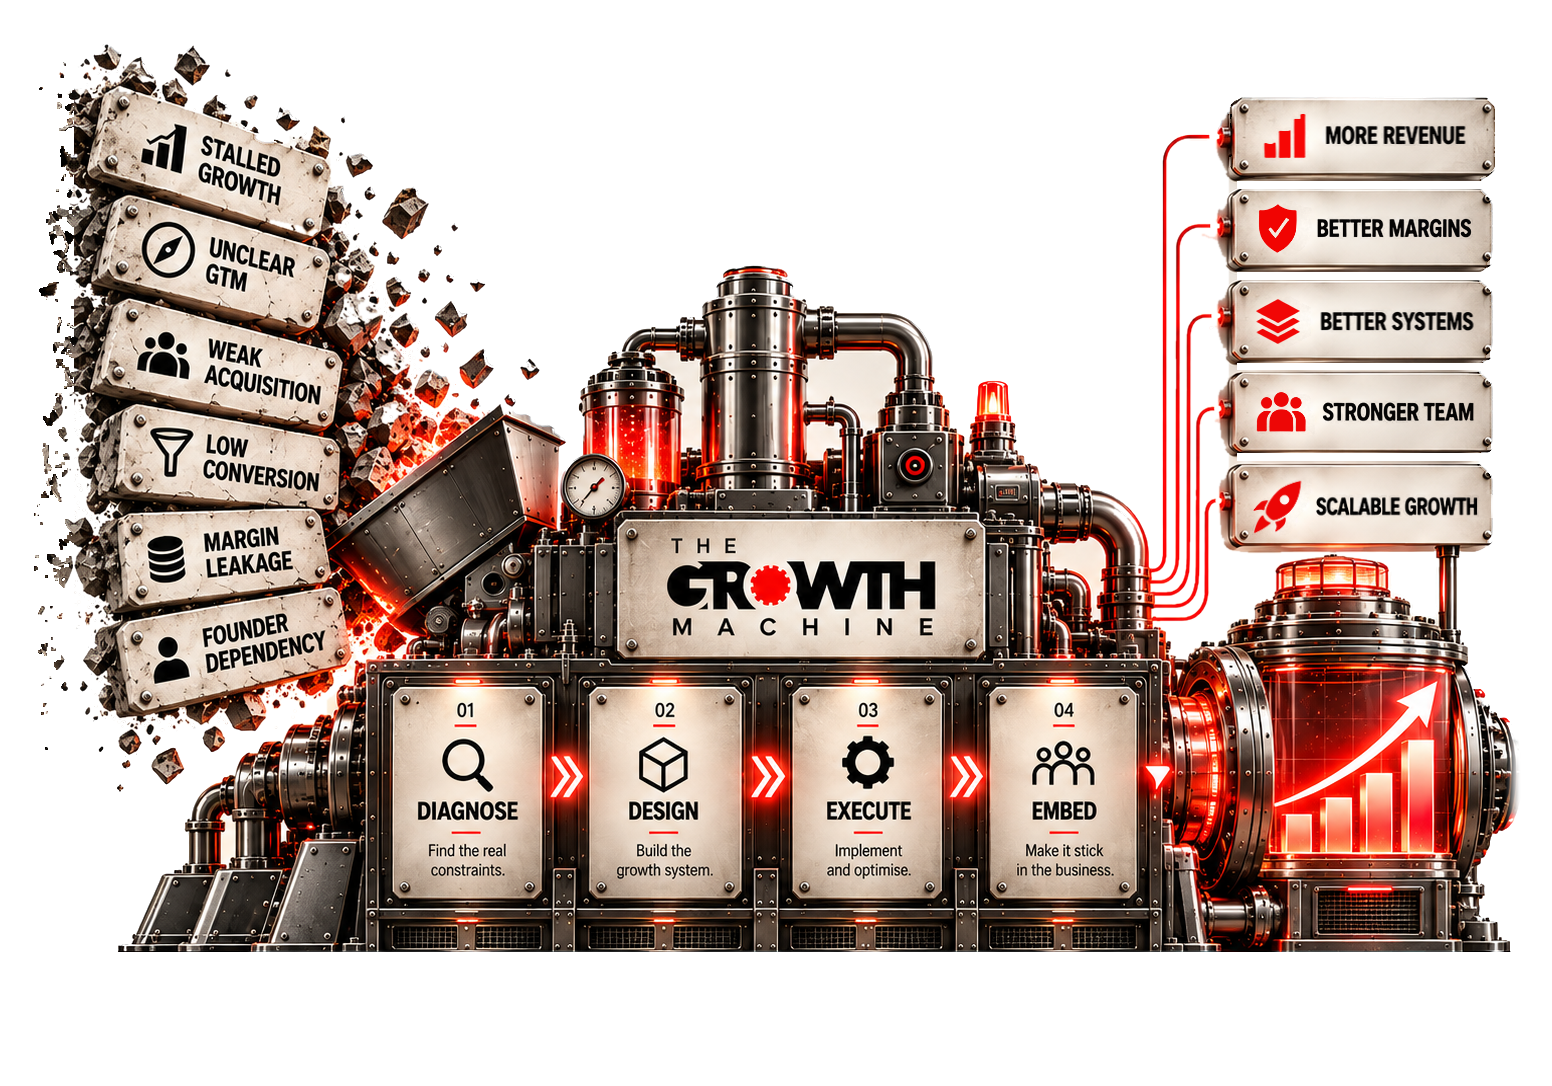
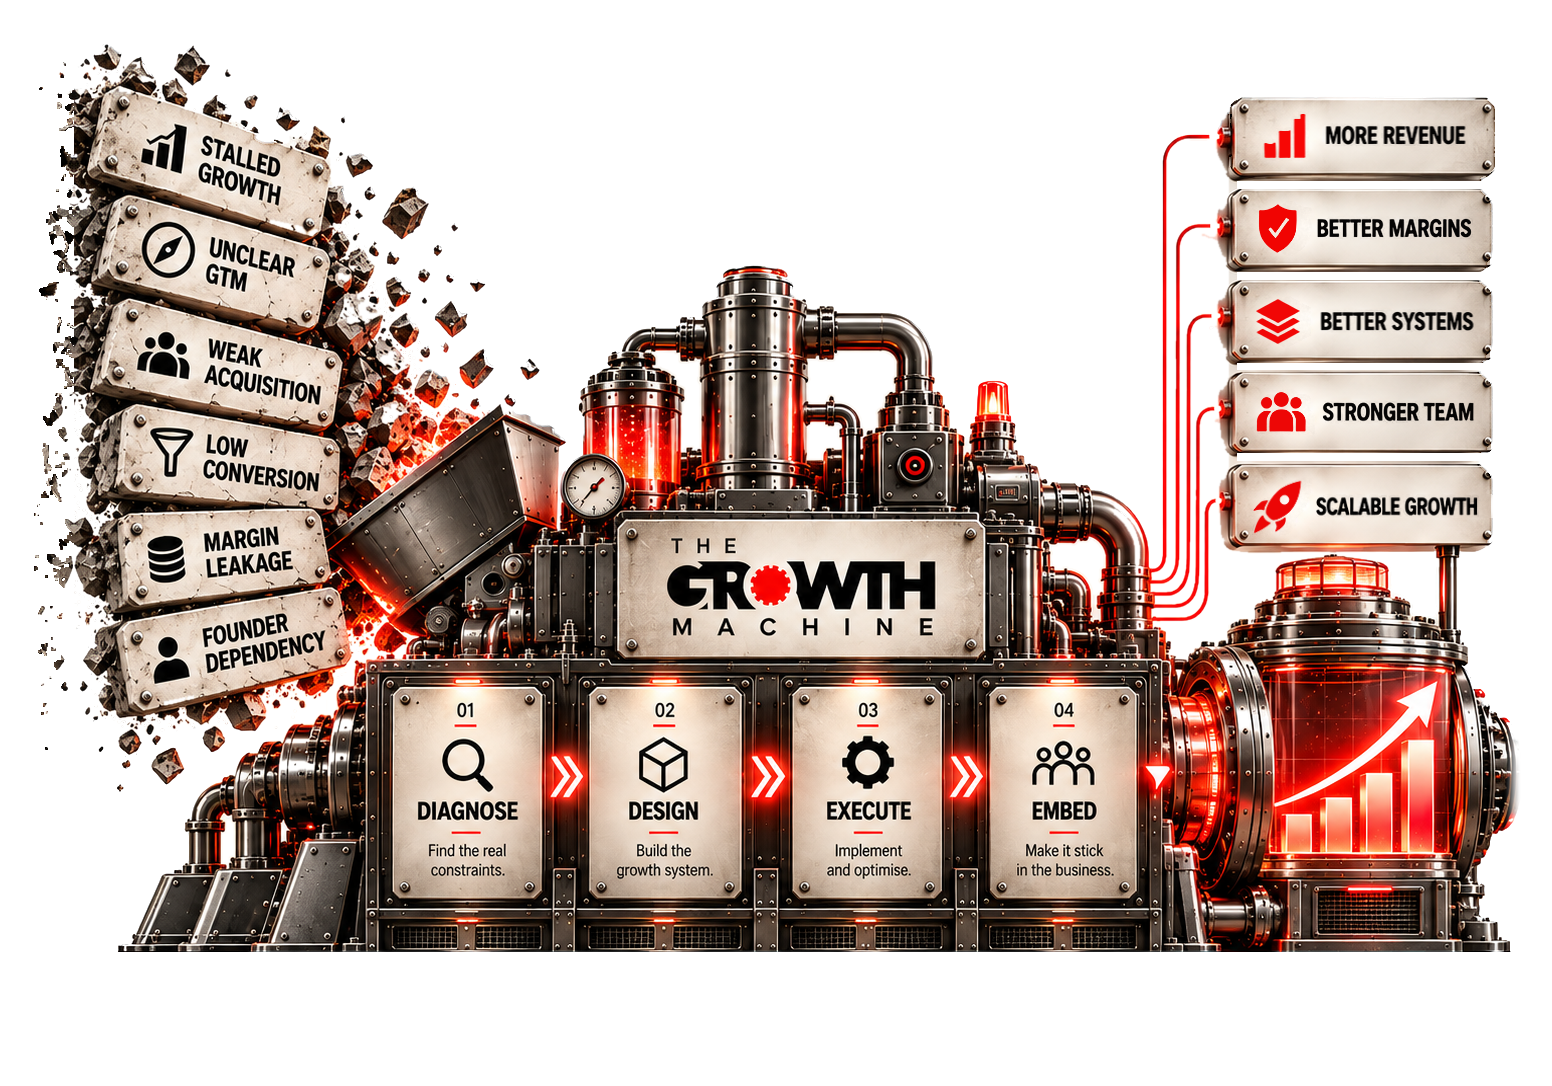
Remove backdrop trapped between the machine's pipes
The cut-out only removed studio backdrop it could reach from the image
edge, so pockets enclosed by pipework stayed: invisible on cream, cream
patches on black. machine-glows.py now sweeps the whole machine for light,
unsaturated, smooth regions (thin chrome highlights are discarded first)
and clears them, protecting the white parts that belong: plates, panels,
the gauge face and the arrows. Near the Founder Dependency slab, where the
backdrop is tinted by the rubble's glow, a near-white pass runs in that
zone only; the slab's hand-measured outline was 10px too generous there.

The scroll lock no longer reserves a permanent scrollbar gutter, which
showed as a cream strip beside dark sections. It keeps the scrollbar's
width as padding only while locked, painted ink.

Claude-Session: https://claude.ai/code/session_01RD994P3JhY2dxs5GjAWo8M

diff --git a/brand/tools/machine-glows.py b/brand/tools/machine-glows.py
@@ -69,7 +69,7 @@ ART = {
             [(28, 296), (276, 344), (264, 432), (16, 384)],
             [(36, 400), (270, 420), (266, 512), (30, 494)],
             [(40, 504), (252, 508), (254, 606), (40, 604)],
-            [(40, 592), (272, 580), (282, 668), (52, 708)],
+            [(40, 592), (266, 580), (270, 664), (52, 708)],
         ],
         "outputs": [rrect(1154, 99 + round(90.75 * k), 268, 81) for k in range(5)],
         "stages": [chamfer(x, 688, 151, 210, 8) for x in (319, 516, 717, 914)],
@@ -84,6 +84,14 @@ ART = {
         "pad": {"l": 74, "t": 0, "r": 30, "b": 0},
         "extend_left": 44,
         "fade_right": (720, 830, 18),
+        # Genuinely white parts the pocket sweep must leave alone (original
+        # render coordinates): the pressure gauge face, and the small white
+        # indicator arrow beside stage 4. The nameplate is covered separately.
+        "keep_light": {"circles": [(522, 480, 40)], "boxes": [(1074, 758, 26, 26)]},
+        "nameplate": (545, 515, 364, 143),
+        # where rubble meets the frame, backdrop is too small and too tinted
+        # for the pocket test; only here, take anything near-white
+        "sliver_zones": [[(250, 560), (330, 560), (330, 790), (200, 790), (200, 700), (250, 660)]],
         # Result boards: the render drew most of them off-centre. Their rivets
         # sit symmetrically about x=1291, so each board's icon-and-text is
         # recentred on that line, and shrunk only if wider than the room
@@ -113,6 +121,9 @@ ART = {
         "pad": {"l": 0, "t": 0, "r": 0, "b": 0},
         "extend_left": 0,
         "fade_right": None,
+        "keep_light": {"circles": [(238, 647, 38)], "boxes": []},
+        "nameplate": (272, 652, 390, 158),
+        "sliver_zones": [],
         "recentre": None,
     },
 }
@@ -265,6 +276,55 @@ def recentre_boards(rgb, src, boards, cfg):
     return img
 
 
+def pockets(rgb, alpha, protect):
+    """Studio backdrop trapped inside the machine, between pipes.
+
+    The cut-out only removed backdrop it could reach from the image edge, so
+    pockets enclosed by pipework stayed. Invisible on cream, obvious on black.
+    A pocket seeds where the render is light, unsaturated and smooth over 5px,
+    after an opening wide enough to discard the thin bright streaks on chrome;
+    it then grows a few pixels into its own soft shadowed rim.
+    """
+    bgr = np.clip(rgb, 0, 255).astype(np.uint8)
+    lum = cv2.cvtColor(bgr, cv2.COLOR_BGR2GRAY).astype(np.float32)
+    sat = cv2.cvtColor(bgr, cv2.COLOR_BGR2HSV)[..., 1].astype(np.float32)
+    m5 = cv2.blur(lum, (5, 5))
+    s5 = np.sqrt(np.maximum(cv2.blur(lum * lum, (5, 5)) - m5 * m5, 0))
+    seed = ((alpha > 0.5) & (lum > 185) & (sat < 45) & (s5 < 5) & ~protect).astype(np.uint8)
+    seed = cv2.morphologyEx(seed, cv2.MORPH_OPEN, np.ones((5, 5), np.uint8))
+    n, lab, st, _ = cv2.connectedComponentsWithStats(seed, connectivity=8)
+    big = np.zeros(n, bool)
+    big[1:] = st[1:, cv2.CC_STAT_AREA] >= 40
+    region = big[lab].astype(np.uint8)
+    m3 = cv2.blur(lum, (3, 3))
+    s3 = np.sqrt(np.maximum(cv2.blur(lum * lum, (3, 3)) - m3 * m3, 0))
+    rim = ((alpha > 0.05) & (lum > 140) & (sat < 60) & (s3 < 14) & ~protect).astype(np.uint8)
+    for _ in range(4):
+        region = cv2.dilate(region, np.ones((3, 3), np.uint8)) & rim
+    return region.astype(bool)
+
+
+def white_slivers(rgb, alpha, protect_tight, zone):
+    """Near-white backdrop squeezed between rubble and the machine's frame.
+
+    Too small or too tinted by the rubble's glow to pass the smoothness test
+    in `pockets`, but whiter than anything the machine itself contains outside
+    its plates and panels, which `protect_tight` covers.
+    """
+    bgr = np.clip(rgb, 0, 255).astype(np.uint8)
+    lum = cv2.cvtColor(bgr, cv2.COLOR_BGR2GRAY).astype(np.float32)
+    sat = cv2.cvtColor(bgr, cv2.COLOR_BGR2HSV)[..., 1].astype(np.float32)
+    white = ((alpha > 0.3) & (lum > 228) & (sat < 40) & ~protect_tight & zone).astype(np.uint8)
+    n, lab, st, _ = cv2.connectedComponentsWithStats(white, connectivity=8)
+    keep = np.zeros(n, bool)
+    keep[1:] = st[1:, cv2.CC_STAT_AREA] >= 12
+    region = keep[lab].astype(np.uint8)
+    rim = ((alpha > 0.05) & (lum > 175) & (sat < 70) & ~protect_tight & zone).astype(np.uint8)
+    for _ in range(2):
+        region = cv2.dilate(region, np.ones((3, 3), np.uint8)) & rim
+    return region.astype(bool)
+
+
 def extend_rubble(rgb, alpha, slabs, band, seed=4, keep_pow=1.2):
     """Mirror the rubble at the left edge outward, then thin it piece by piece.
 
@@ -377,6 +437,26 @@ def run(art, c):
         RGB[pt:pt + H, pl - b:pl] = ec
         A[pt:pt + H, pl - b:pl] = ea
         zoneP[pt:pt + H, :pl] = zoneP[pt:pt + H, pl:pl + 1]
+    # ---- trapped backdrop between the pipes, anywhere in the machine
+    protect = slabsP.copy()
+    for p in c["outputs"] + c["stages"]:
+        protect |= pad(rounded_mask(shape, p, 0))
+    nx, ny, nw, nh = c["nameplate"]
+    protect[ny + pt - 6:ny + pt + nh + 6, nx + pl - 6:nx + pl + nw + 6] = True
+    ax_, ay_, aw_, ah_ = c["arrow_box"]
+    protect[ay_ + pt:ay_ + pt + ah_, ax_ + pl:ax_ + pl + aw_] = True
+    for (cx, cy, r) in c["keep_light"]["circles"]:
+        cv2.circle(protect.view(np.uint8), (cx + pl, cy + pt), r, 1, -1)
+    for (bx, by, bw, bh) in c["keep_light"]["boxes"]:
+        protect[by + pt:by + pt + bh, bx + pl:bx + pl + bw] = True
+    protect_tight = cv2.dilate(protect.astype(np.uint8), np.ones((3, 3), np.uint8)).astype(bool)
+    protect = cv2.dilate(protect.astype(np.uint8), np.ones((9, 9), np.uint8)).astype(bool)
+    sliver_zone = np.zeros((PH, PW), bool)
+    for z in c["sliver_zones"]:
+        sliver_zone |= pad(poly_mask(shape, z))
+    trapped = pockets(RGB, A, protect) | white_slivers(RGB, A, protect_tight, sliver_zone)
+    A = A * (1 - soft(trapped, 0.8))
+
     final = np.dstack([np.clip(RGB, 0, 255), np.clip(A * 255, 0, 255)]).astype(np.uint8)
     cv2.imwrite(f"{OUT}/machine-{art}.png", final)
 
@@ -431,7 +511,7 @@ def run(art, c):
         m = pad(outs[idx])
         seq["items"].append({"name": f"block{k + 1}", "box": crop(glow_layer(m, RGB, A, so, sr), f"block{k + 1}"), "at": beats[k]})
 
-    print(art, "canvas", (PW, PH), "| backdrop px removed", int(back.sum()), "| beats", beats)
+    print(art, "canvas", (PW, PH), "| backdrop px removed", int(back.sum()), "| pocket px removed", int(trapped.sum()), "| beats", beats)
     return {"size": [PW, PH], "offset": [pl, pt], "seq": seq}
 
 

diff --git a/brand/README.md b/brand/README.md
@@ -48,6 +48,11 @@ uses into `src/assets/machine/`:
 - `manifest.json`: canvas sizes, padding, and every sequence item's box and
   timing, read by `MachineRun.astro`.
 
+It also sweeps the whole machine for studio backdrop trapped between pipes
+(the cut-out only removed backdrop it could reach from the image edge), while
+protecting the genuinely white parts listed in its config: plates, panels,
+the gauge face, the chart arrow and the small indicator arrow.
+
 Every outline in that script (slabs, stage panels, result blocks, bars) is
 measured by hand from the originals.
 
